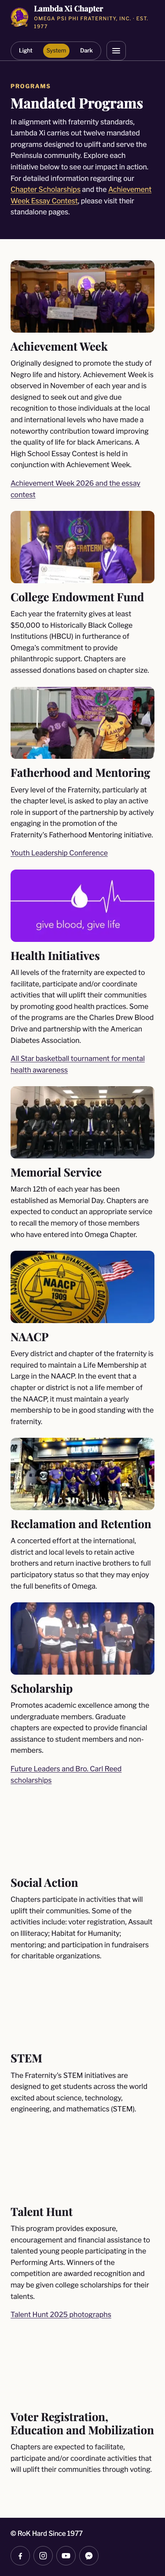
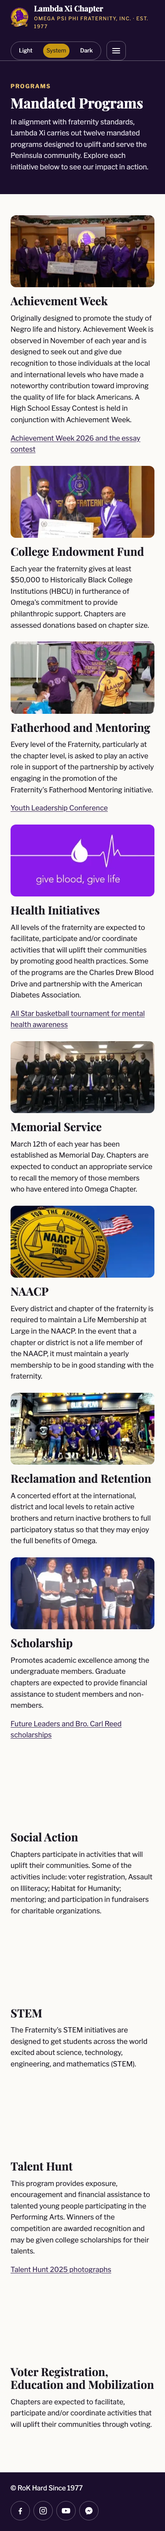
content: drop the redundant standalone-pages sentence from Mandated Programs

diff --git a/mandated-programs/mock/mandated-programs-mock.html b/mandated-programs/mock/mandated-programs-mock.html
@@ -98,7 +98,7 @@
     <div class="container">
       <p class="eyebrow">Programs</p>
       <h1>Mandated Programs</h1>
-      <p>In alignment with fraternity standards, Lambda Xi carries out twelve mandated programs designed to uplift and serve the Peninsula community. Explore each initiative below to see our impact in action. For detailed information regarding our <a href="../../scholarships/mock/scholarships-mock.html">Chapter Scholarships</a> and the <a href="../../achievement-week/mock/achievement-week-mock.html#essay-contest">Achievement Week Essay Contest</a>, please visit their standalone pages.</p>
+      <p>In alignment with fraternity standards, Lambda Xi carries out twelve mandated programs designed to uplift and serve the Peninsula community. Explore each initiative below to see our impact in action.</p>
     </div>
   </div>
 

diff --git a/tooling/mock-src/pages/programs.html b/tooling/mock-src/pages/programs.html
@@ -13,7 +13,7 @@
     <div class="container">
       <p class="eyebrow">Programs</p>
       <h1>Mandated Programs</h1>
-      <p>In alignment with fraternity standards, Lambda Xi carries out twelve mandated programs designed to uplift and serve the Peninsula community. Explore each initiative below to see our impact in action. For detailed information regarding our <a href="{{href:scholarships}}">Chapter Scholarships</a> and the <a href="{{href:achievementWeek}}#essay-contest">Achievement Week Essay Contest</a>, please visit their standalone pages.</p>
+      <p>In alignment with fraternity standards, Lambda Xi carries out twelve mandated programs designed to uplift and serve the Peninsula community. Explore each initiative below to see our impact in action.</p>
     </div>
   </div>
 

diff --git a/docs/programs/index.html b/docs/programs/index.html
@@ -99,7 +99,7 @@
     <div class="container">
       <p class="eyebrow">Programs</p>
       <h1>Mandated Programs</h1>
-      <p>In alignment with fraternity standards, Lambda Xi carries out twelve mandated programs designed to uplift and serve the Peninsula community. Explore each initiative below to see our impact in action. For detailed information regarding our <a href="../scholarships/">Chapter Scholarships</a> and the <a href="../events/achievement-week/#essay-contest">Achievement Week Essay Contest</a>, please visit their standalone pages.</p>
+      <p>In alignment with fraternity standards, Lambda Xi carries out twelve mandated programs designed to uplift and serve the Peninsula community. Explore each initiative below to see our impact in action.</p>
     </div>
   </div>
 

diff --git a/merged/mandated-programs.html b/merged/mandated-programs.html
@@ -98,7 +98,7 @@
     <div class="container">
       <p class="eyebrow">Programs</p>
       <h1>Mandated Programs</h1>
-      <p>In alignment with fraternity standards, Lambda Xi carries out twelve mandated programs designed to uplift and serve the Peninsula community. Explore each initiative below to see our impact in action. For detailed information regarding our <a href="scholarships.html">Chapter Scholarships</a> and the <a href="achievement-week.html#essay-contest">Achievement Week Essay Contest</a>, please visit their standalone pages.</p>
+      <p>In alignment with fraternity standards, Lambda Xi carries out twelve mandated programs designed to uplift and serve the Peninsula community. Explore each initiative below to see our impact in action.</p>
     </div>
   </div>
 
